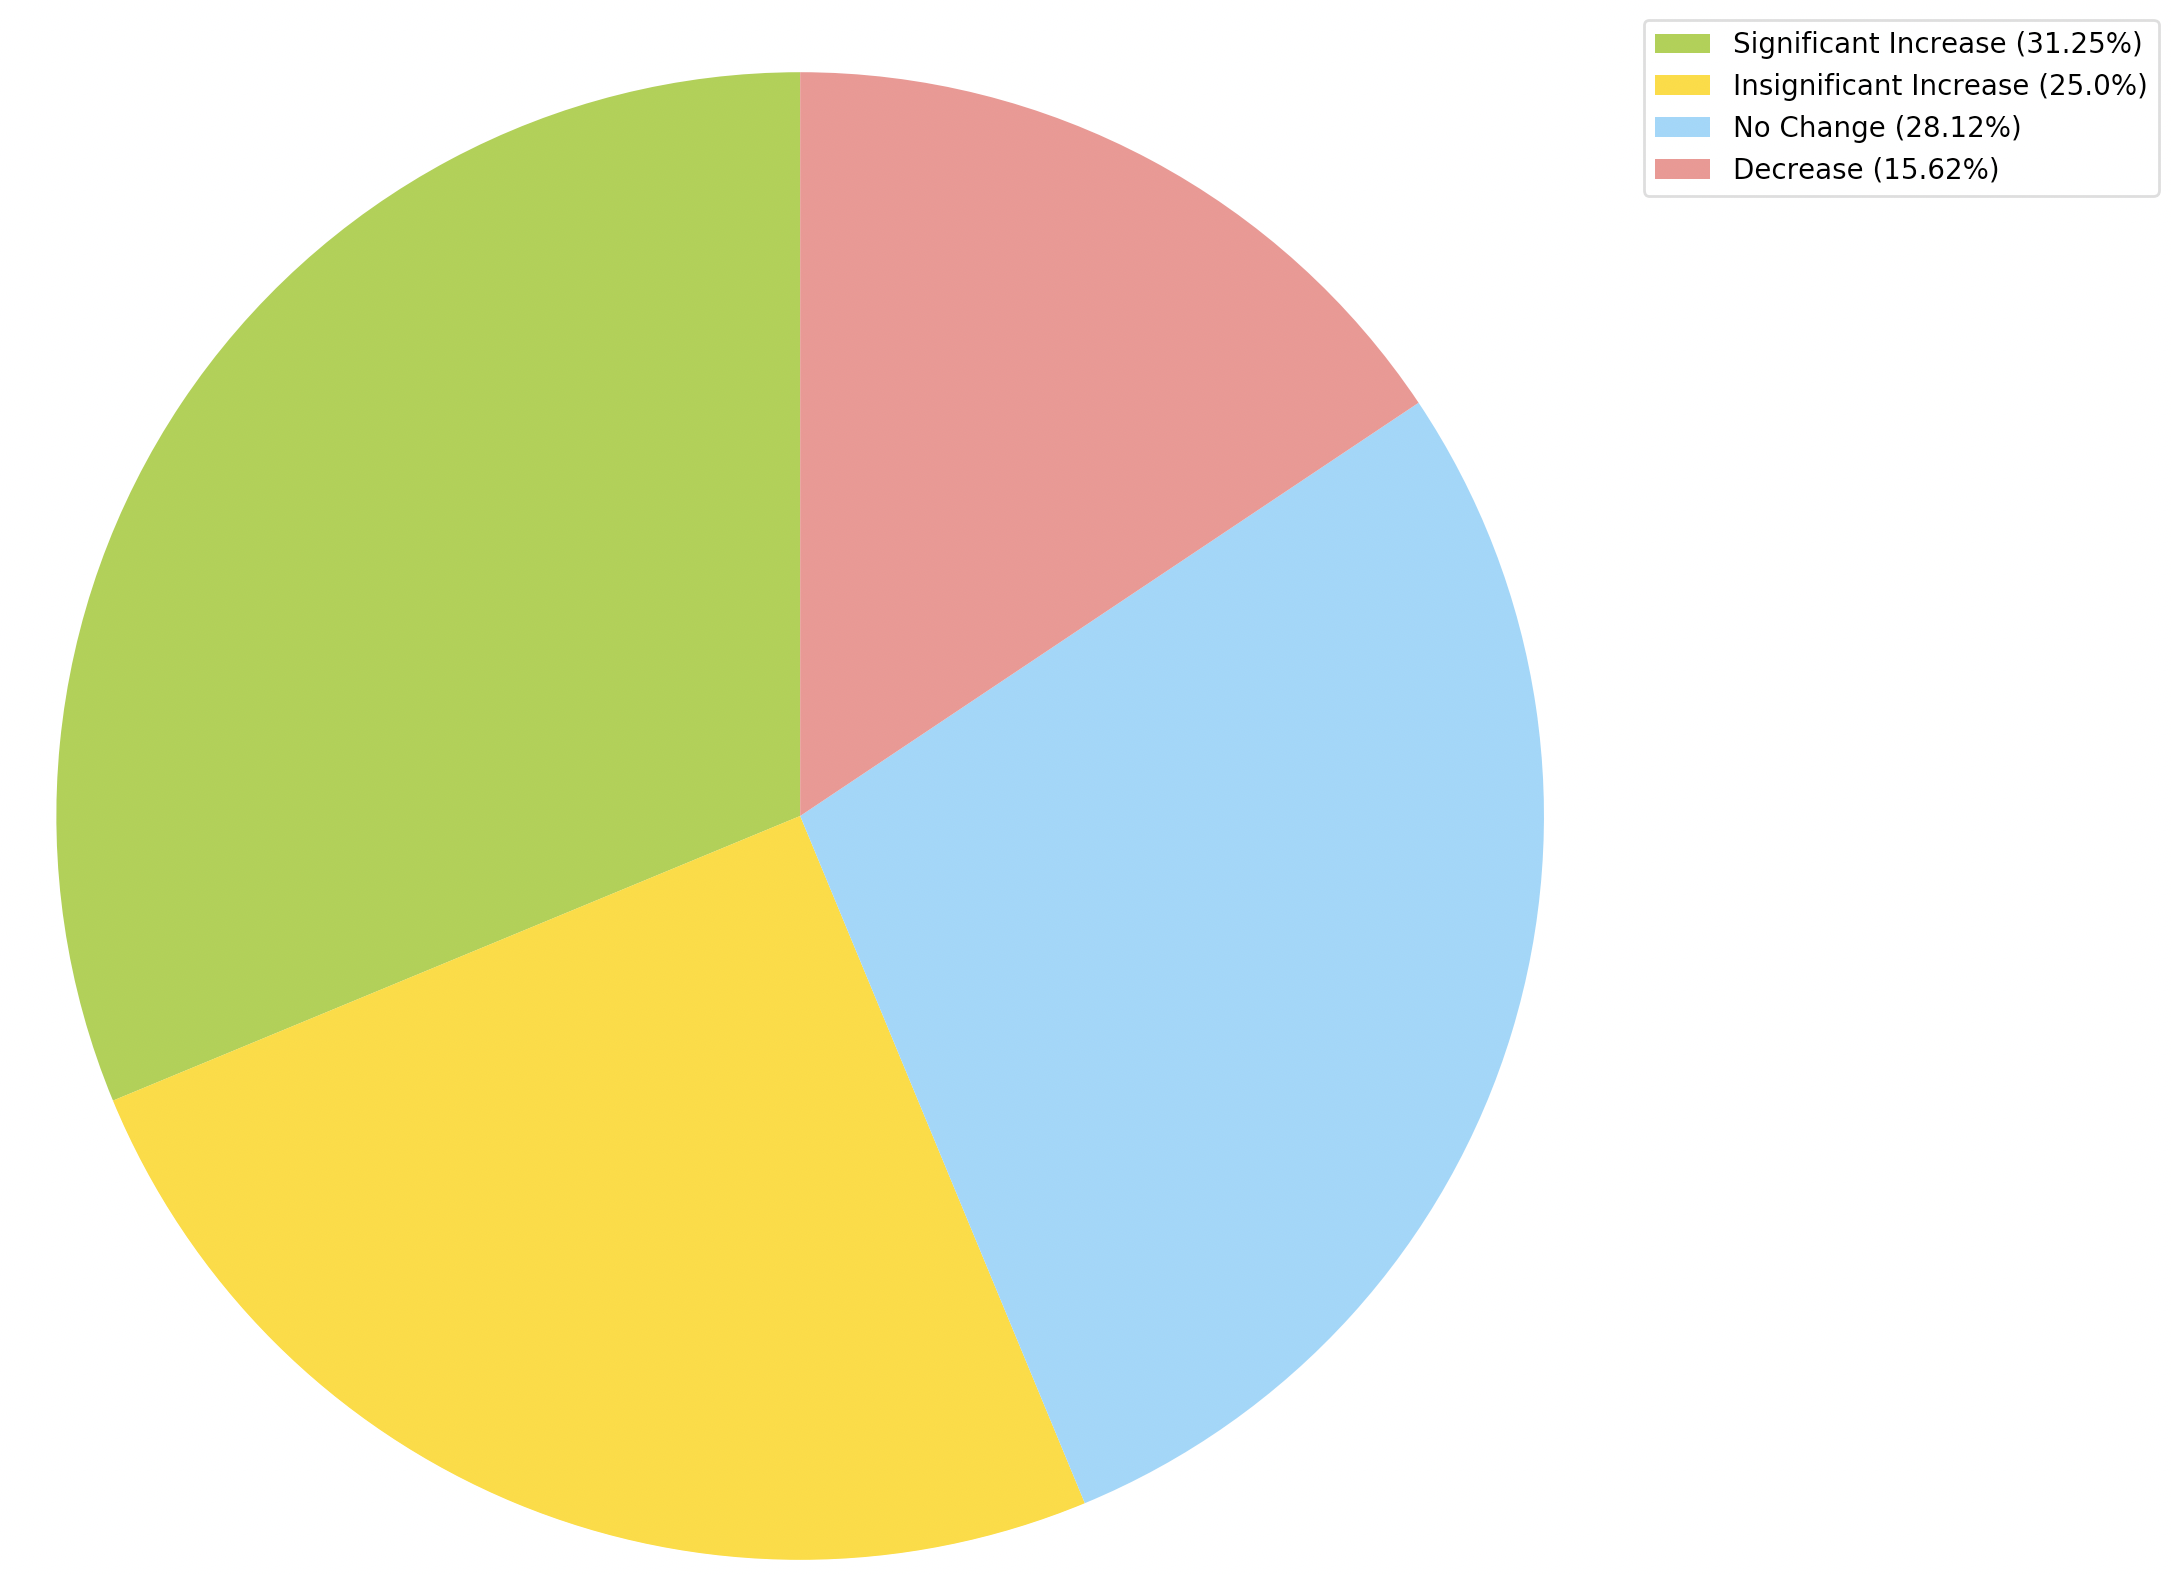
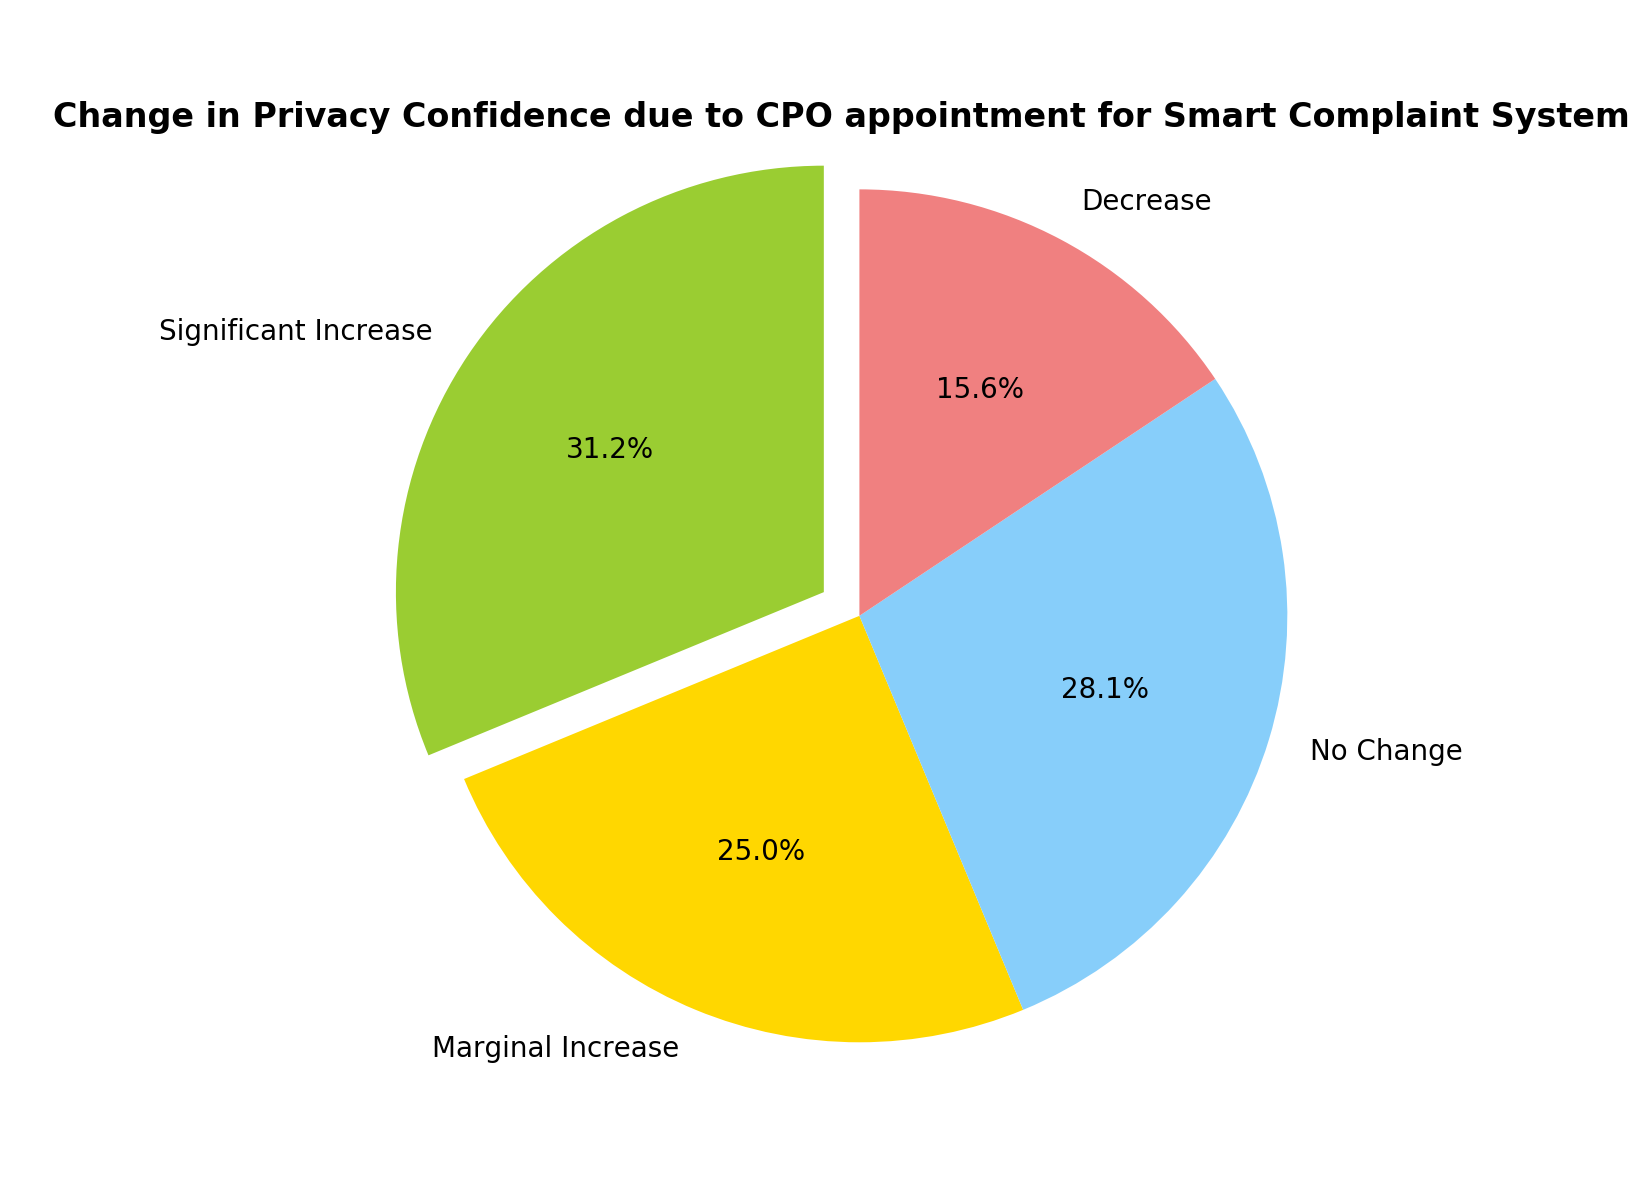
updated pie plots

diff --git a/pie_uc.py b/pie_uc.py
@@ -29,7 +29,7 @@ def plotPieChart(segments, full_usecase):
     plt.pie(segments, colors=colors, labels=labels, explode=explode, autopct='%1.1f%%', startangle=90)
     # Set aspect ratio to be equal so that pie is drawn as a circle.
     plt.axis('equal')
-    plt.title("Change in Privacy Confidence due to CPO appointment for " + full_usecase)
+    plt.title("Change in Privacy Confidence due to CPO appointment for " + full_usecase,fontweight='bold')
     plt.show()
 
 
